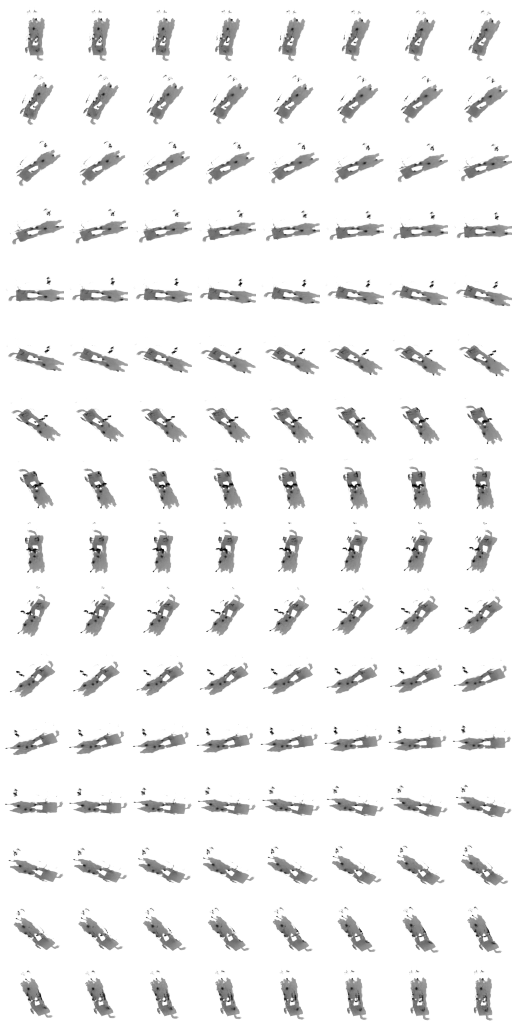
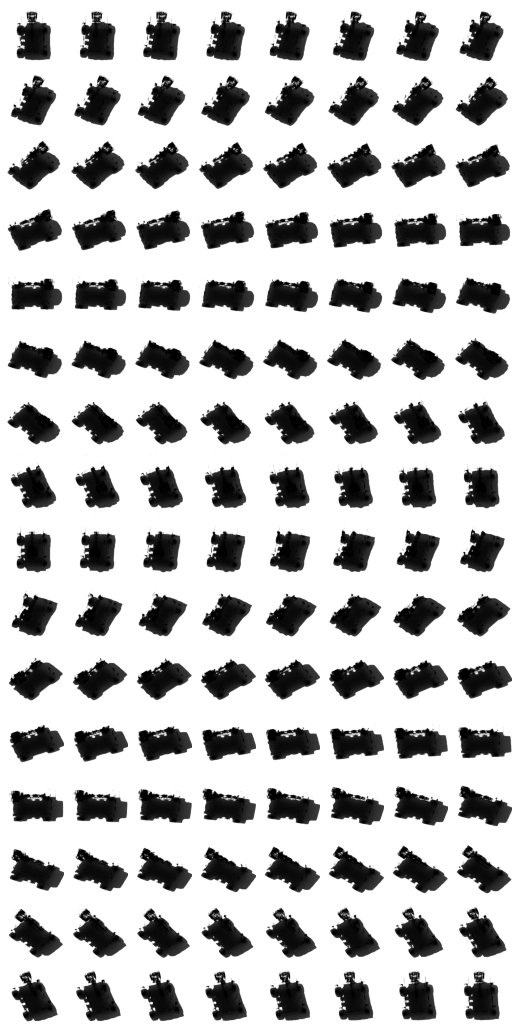
new engine graphics

diff --git a/scripts/constant.py b/scripts/constant.py
@@ -1,4 +1,4 @@
 frame_count = 128
 frames_per_row = 8
-frame_width = 64
-frame_height = 64
+frame_width = 192
+frame_height = 192
